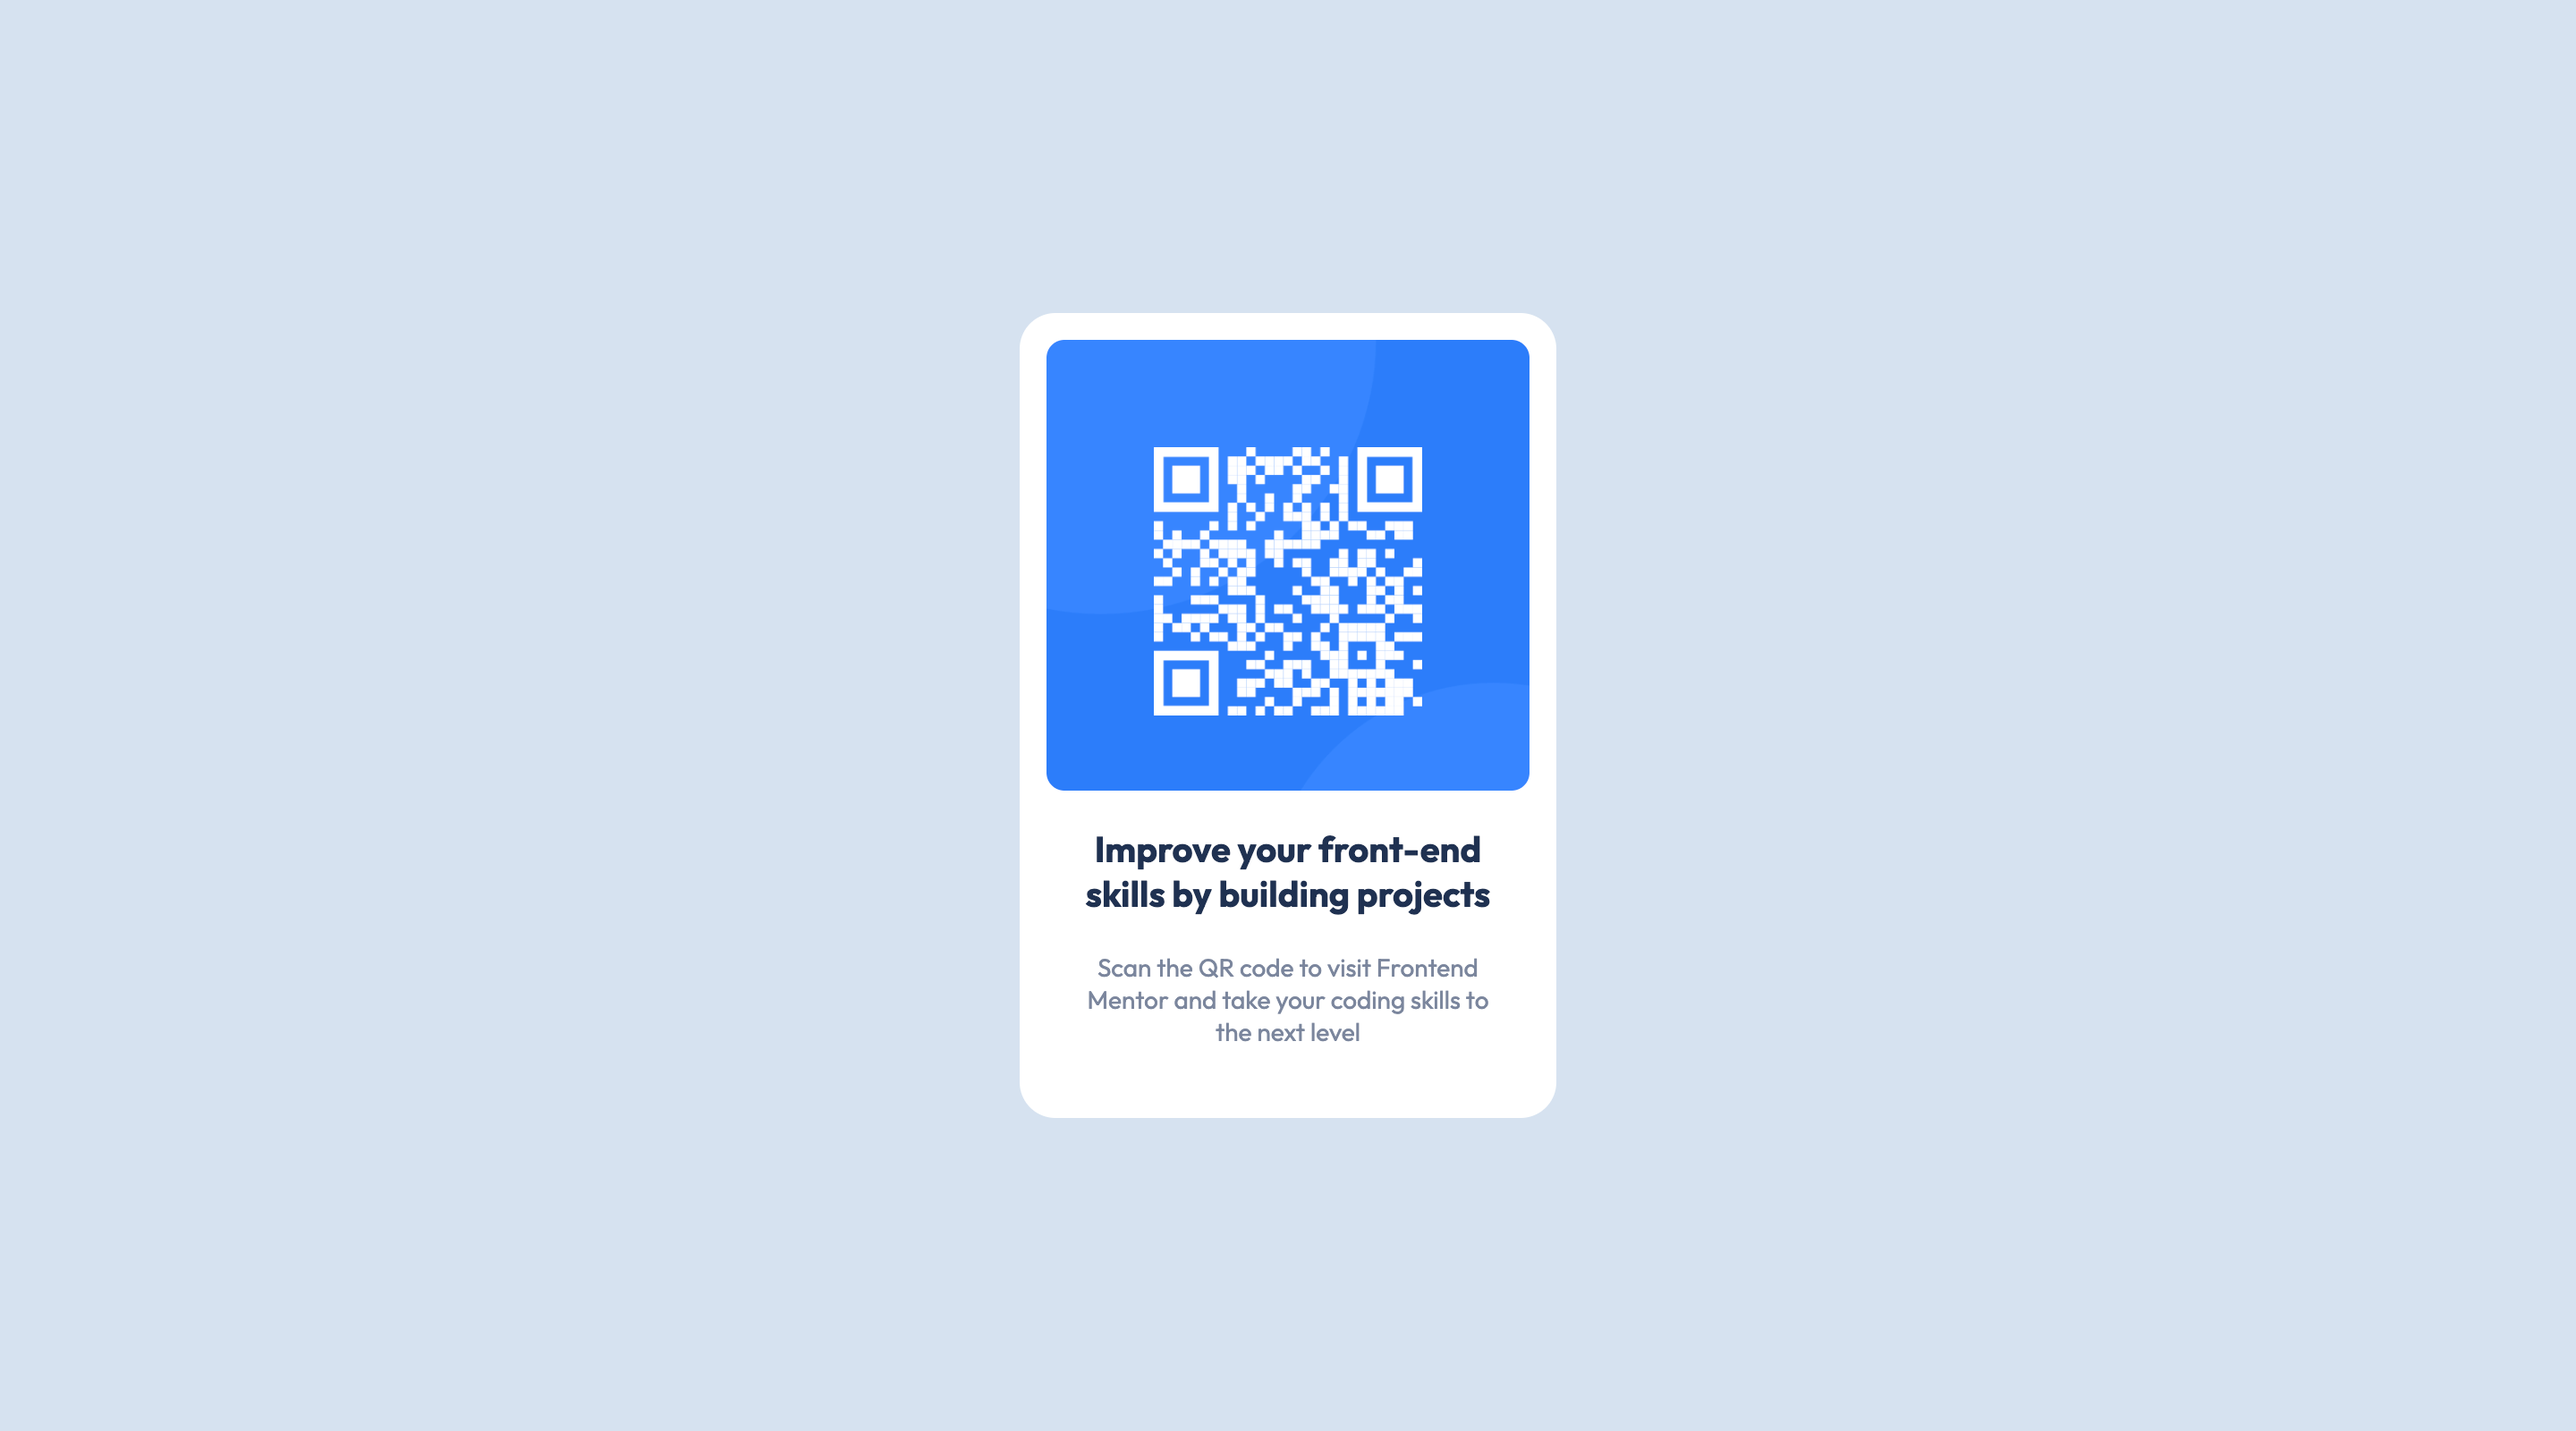
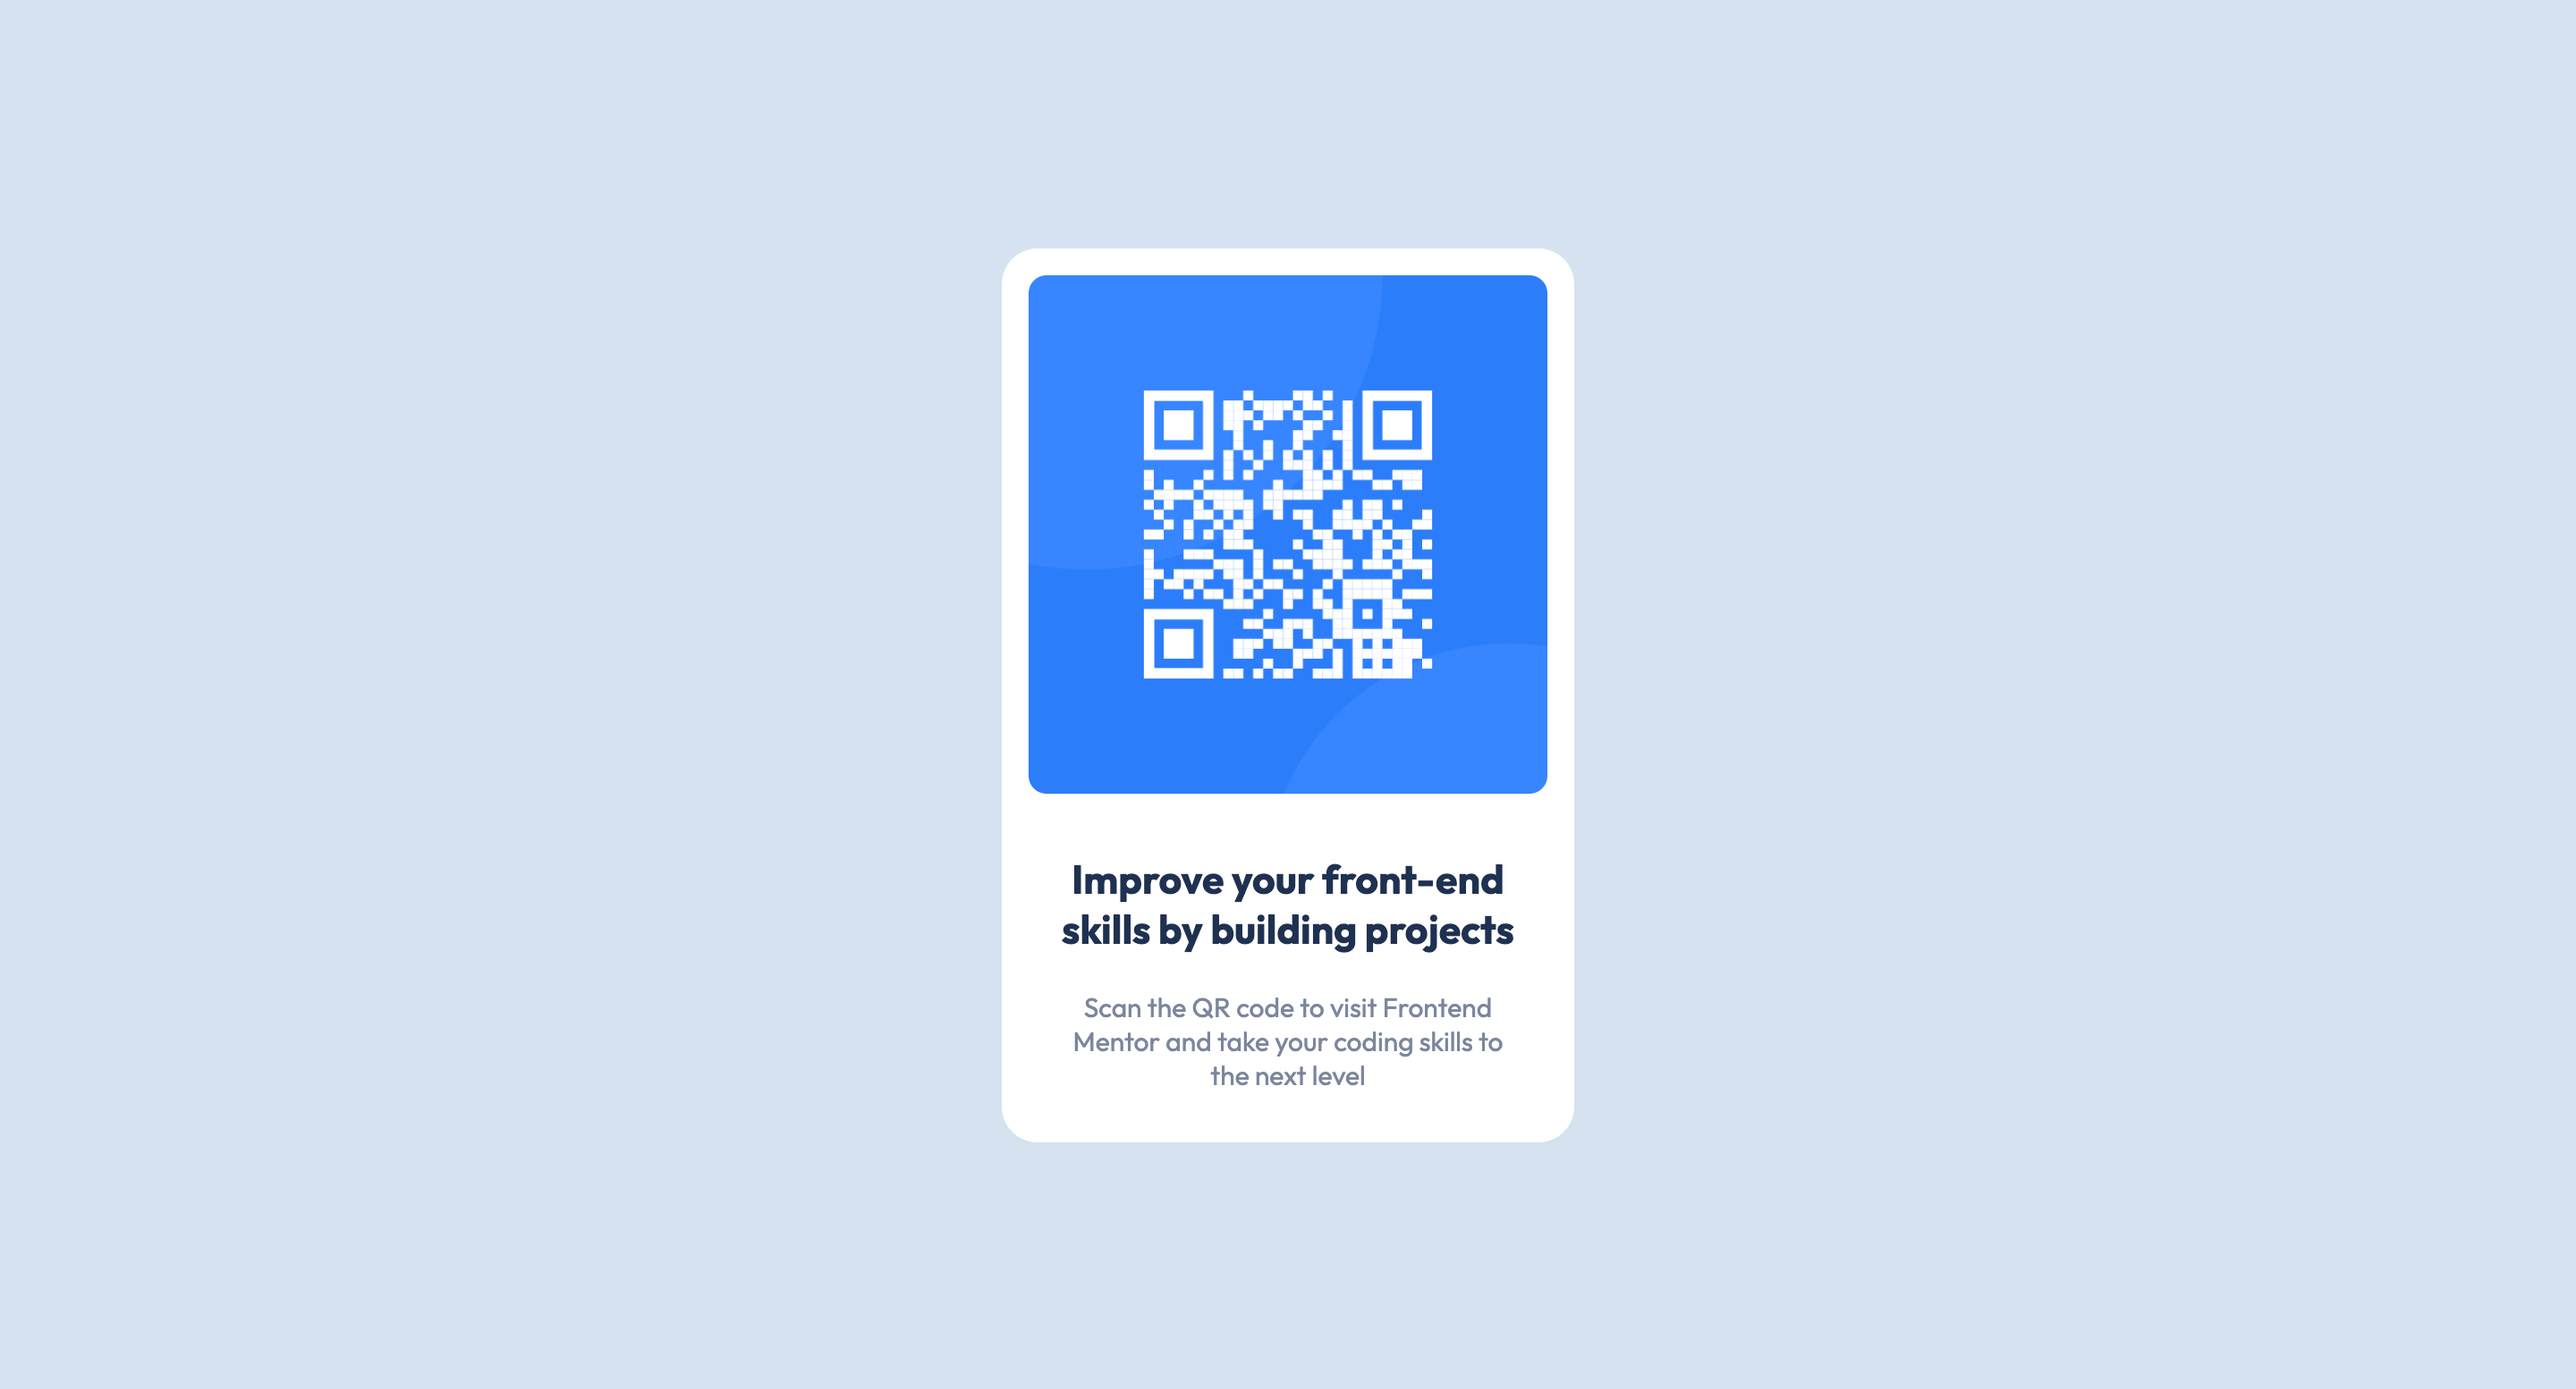
Renew  HTML and CSS

Changed region(s): [[0.375, 0.1544, 0.625, 0.834]]

diff --git a/style.scss b/style.scss
@@ -1,55 +1,54 @@
-@import url("https://fonts.googleapis.com/css2?family=Fraunces:ital,opsz,wght@0,9..144,700;1,9..144,700&family=Montserrat:ital,wght@0,500;0,700;1,500;1,700&family=Outfit:wght@400;700&display=swap");
+//Font
+$root-font-family: Outfit;
+$root-font-size: 15px;
+
+//Color
+$white: hsl(0, 0%, 100%);
+$light-gray: hsl(212, 45%, 89%);
+$grayish-blue: hsl(220, 15%, 55%);
+$dark-blue: hsl(218, 44%, 22%);
 
 * {
   margin: 0;
   padding: 0;
-  overflow: hidden;
   box-sizing: border-box;
-  font-family: "Fraunces", serif;
-  font-family: "Montserrat", sans-serif;
-  font-family: "Outfit", sans-serif;
+  font-family: $root-font-family;
+  font-size: $root-font-size;
 }
 
 body {
   background-color: hsl(212, 45%, 89%);
 
-  .container {
-    width: 300px;
-    height: 450px;
-    background-color: hsl(0, 0%, 100%);
+  main {
+    width: 320px;
+    height: 500px;
+    background-color: $white;
+    padding: 15px;
+    border-radius: 20px;
 
     position: absolute;
     top: 50%;
     left: 50%;
     translate: -50% -50%;
-    border-radius: 20px;
-    padding: 15px;
 
-    .qr {
+    img {
       width: 100%;
-      height: 60%;
-      background-image: url(source/images/image-qr-code.png);
-      background-size: cover;
       border-radius: 10px;
+      margin-bottom: 30px;
     }
 
-    .detail {
-      width: 90%;
-      height: fit-content;
-      margin: 20px auto 0 auto;
+    .content {
+      text-align: center;
 
       h1 {
-        font-weight: 700;
-        font-size: 20px;
-        text-align: center;
-        color: hsl(218, 44%, 22%);
+        color: $dark-blue;
+        font-size: 1.49rem;
         margin-bottom: 20px;
       }
+
       p {
-        font-weight: 400;
-        font-size: 14px;
-        text-align: center;
-        color: hsl(220, 15%, 55%);
+        color: $grayish-blue;
+        padding: 0 20px;
       }
     }
   }

diff --git a/style.css b/style.css
@@ -1,51 +1,39 @@
-@import url("https://fonts.googleapis.com/css2?family=Fraunces:ital,opsz,wght@0,9..144,700;1,9..144,700&family=Montserrat:ital,wght@0,500;0,700;1,500;1,700&family=Outfit:wght@400;700&display=swap");
 * {
   margin: 0;
   padding: 0;
-  overflow: hidden;
   box-sizing: border-box;
-  font-family: "Fraunces", serif;
-  font-family: "Montserrat", sans-serif;
-  font-family: "Outfit", sans-serif;
+  font-family: Outfit;
+  font-size: 15px;
 }
 
 body {
   background-color: hsl(212, 45%, 89%);
 }
-body .container {
-  width: 300px;
-  height: 450px;
+body main {
+  width: 320px;
+  height: 500px;
   background-color: hsl(0, 0%, 100%);
+  padding: 15px;
+  border-radius: 20px;
   position: absolute;
   top: 50%;
   left: 50%;
   translate: -50% -50%;
-  border-radius: 20px;
-  padding: 15px;
 }
-body .container .qr {
+body main img {
   width: 100%;
-  height: 60%;
-  background-image: url(source/images/image-qr-code.png);
-  background-size: cover;
   border-radius: 10px;
+  margin-bottom: 30px;
 }
-body .container .detail {
-  width: 90%;
-  height: -moz-fit-content;
-  height: fit-content;
-  margin: 20px auto 0 auto;
-}
-body .container .detail h1 {
-  font-weight: 700;
-  font-size: 20px;
+body main .content {
   text-align: center;
+}
+body main .content h1 {
   color: hsl(218, 44%, 22%);
+  font-size: 1.49rem;
   margin-bottom: 20px;
 }
-body .container .detail p {
-  font-weight: 400;
-  font-size: 14px;
-  text-align: center;
+body main .content p {
   color: hsl(220, 15%, 55%);
+  padding: 0 20px;
 }

diff --git a/index.html b/index.html
@@ -11,17 +11,23 @@
     />
     <title>Frontend Mentor | QR Code Component</title>
     <link rel="stylesheet" href="style.css" />
+    <link rel="preconnect" href="https://fonts.googleapis.com" />
+    <link rel="preconnect" href="https://fonts.gstatic.com" crossorigin />
+    <link
+      href="https://fonts.googleapis.com/css2?family=Outfit:wght@100..900&display=swap"
+      rel="stylesheet"
+    />
   </head>
   <body>
-    <div class="container">
-      <div class="qr"></div>
-      <div class="detail">
+    <main>
+      <img src="source/images/image-qr-code.png" alt="QR-Code" />
+      <div class="content">
         <h1>Improve your front-end skills by building projects</h1>
         <p>
           Scan the QR code to visit Frontend Mentor and take your coding skills
           to the next level
         </p>
       </div>
-    </div>
+    </main>
   </body>
 </html>
